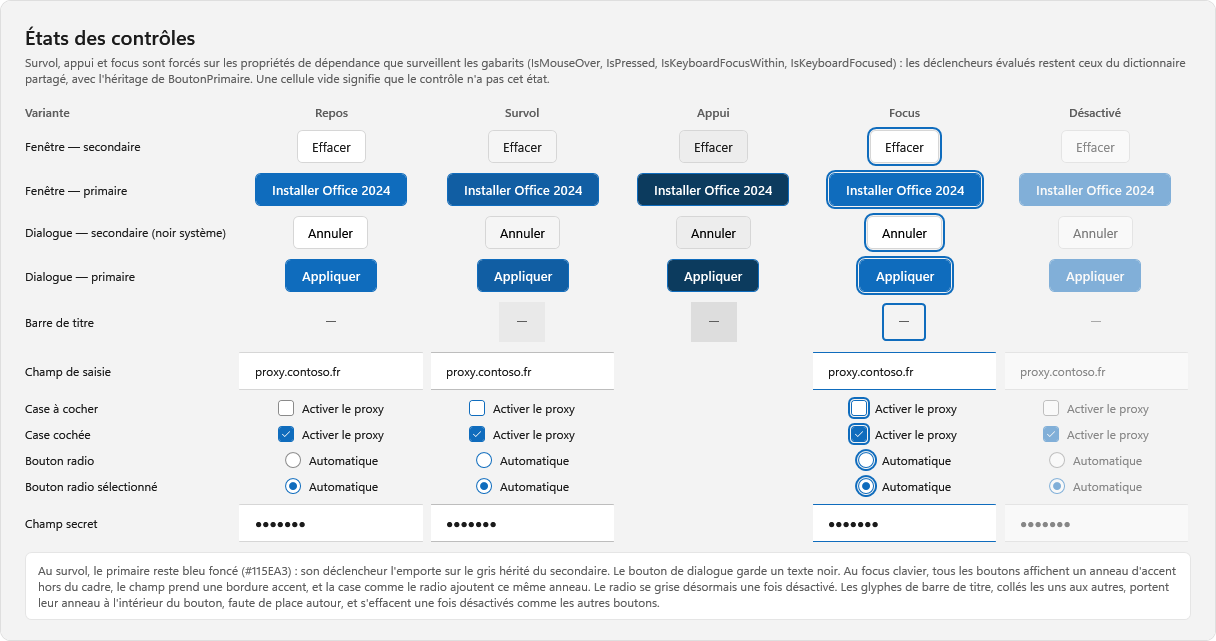
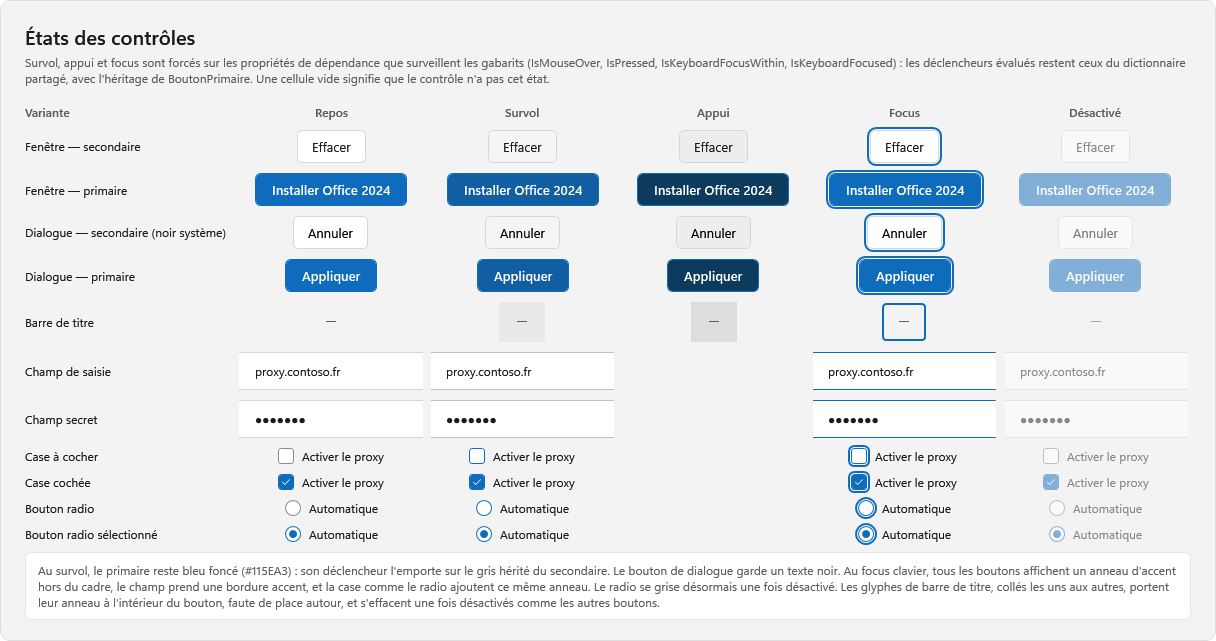
Place la ligne Champ secret juste apres Champ de saisie.
Les deux lignes de champs se suivent maintenant sur la planche : l'ancienne derniere
ligne (radios) reprend la marge basse nulle de la derniere ligne, et la ligne deplacee
prend les marges standard de la ligne 6. Seules les cases et les radios descendent de
48 px ; tout ce qui est au-dessus et la note restent identiques au pixel.

diff --git a/Maquette/Etats.xaml b/Maquette/Etats.xaml
@@ -171,81 +171,82 @@
                  Style="{StaticResource Champ}" Width="190" HorizontalAlignment="Center"
                  Margin="4,0,4,10"/>
 
-        <!-- Case a cocher -->
-        <TextBlock Grid.Row="7" Text="Case à cocher" Style="{StaticResource Etiquette}"
+        <!-- Champ secret : survol gris, focus accent, pas d'appui -->
+        <TextBlock Grid.Row="7" Text="Champ secret" Style="{StaticResource Etiquette}"
                    Margin="0,0,0,10"/>
-        <CheckBox Grid.Row="7" Grid.Column="1" x:Name="Chk_Repos" Content="Activer le proxy"
+        <PasswordBox Grid.Row="7" Grid.Column="1" x:Name="Secr_Repos" Password="contoso"
+                     Style="{StaticResource ChampSecret}" Width="190" HorizontalAlignment="Center"
+                     Margin="4,0,4,10"/>
+        <PasswordBox Grid.Row="7" Grid.Column="2" x:Name="Secr_Survol" Password="contoso"
+                     Style="{StaticResource ChampSecret}" Width="190" HorizontalAlignment="Center"
+                     Margin="4,0,4,10"/>
+        <PasswordBox Grid.Row="7" Grid.Column="4" x:Name="Secr_Focus" Password="contoso"
+                     Style="{StaticResource ChampSecret}" Width="190" HorizontalAlignment="Center"
+                     Margin="4,0,4,10"/>
+        <PasswordBox Grid.Row="7" Grid.Column="5" x:Name="Secr_Off" Password="contoso"
+                     Style="{StaticResource ChampSecret}" Width="190" HorizontalAlignment="Center"
+                     Margin="4,0,4,10"/>
+
+        <!-- Case a cocher -->
+        <TextBlock Grid.Row="8" Text="Case à cocher" Style="{StaticResource Etiquette}"
+                   Margin="0,0,0,10"/>
+        <CheckBox Grid.Row="8" Grid.Column="1" x:Name="Chk_Repos" Content="Activer le proxy"
                   Style="{StaticResource Case}" HorizontalAlignment="Center" Margin="4,0,4,10"/>
-        <CheckBox Grid.Row="7" Grid.Column="2" x:Name="Chk_Survol" Content="Activer le proxy"
+        <CheckBox Grid.Row="8" Grid.Column="2" x:Name="Chk_Survol" Content="Activer le proxy"
                   Style="{StaticResource Case}" HorizontalAlignment="Center" Margin="4,0,4,10"/>
-        <CheckBox Grid.Row="7" Grid.Column="4" x:Name="Chk_Focus" Content="Activer le proxy"
+        <CheckBox Grid.Row="8" Grid.Column="4" x:Name="Chk_Focus" Content="Activer le proxy"
                   Style="{StaticResource Case}" HorizontalAlignment="Center" Margin="4,0,4,10"/>
-        <CheckBox Grid.Row="7" Grid.Column="5" x:Name="Chk_Off" Content="Activer le proxy"
+        <CheckBox Grid.Row="8" Grid.Column="5" x:Name="Chk_Off" Content="Activer le proxy"
                   Style="{StaticResource Case}" HorizontalAlignment="Center" Margin="4,0,4,10"/>
 
         <!-- Case cochee : le focus doit rester visible sous le remplissage accent -->
-        <TextBlock Grid.Row="8" Text="Case cochée" Style="{StaticResource Etiquette}"
+        <TextBlock Grid.Row="9" Text="Case cochée" Style="{StaticResource Etiquette}"
                    Margin="0,0,0,10"/>
-        <CheckBox Grid.Row="8" Grid.Column="1" x:Name="ChkC_Repos" Content="Activer le proxy"
+        <CheckBox Grid.Row="9" Grid.Column="1" x:Name="ChkC_Repos" Content="Activer le proxy"
                   IsChecked="True" Style="{StaticResource Case}" HorizontalAlignment="Center"
                   Margin="4,0,4,10"/>
-        <CheckBox Grid.Row="8" Grid.Column="2" x:Name="ChkC_Survol" Content="Activer le proxy"
+        <CheckBox Grid.Row="9" Grid.Column="2" x:Name="ChkC_Survol" Content="Activer le proxy"
                   IsChecked="True" Style="{StaticResource Case}" HorizontalAlignment="Center"
                   Margin="4,0,4,10"/>
-        <CheckBox Grid.Row="8" Grid.Column="4" x:Name="ChkC_Focus" Content="Activer le proxy"
+        <CheckBox Grid.Row="9" Grid.Column="4" x:Name="ChkC_Focus" Content="Activer le proxy"
                   IsChecked="True" Style="{StaticResource Case}" HorizontalAlignment="Center"
                   Margin="4,0,4,10"/>
-        <CheckBox Grid.Row="8" Grid.Column="5" x:Name="ChkC_Off" Content="Activer le proxy"
+        <CheckBox Grid.Row="9" Grid.Column="5" x:Name="ChkC_Off" Content="Activer le proxy"
                   IsChecked="True" Style="{StaticResource Case}" HorizontalAlignment="Center"
                   Margin="4,0,4,10"/>
 
         <!-- Bouton radio : meme anneau de focus que la case. Chaque bouton porte son
              propre GroupName, sinon les instances cochees se decocheraient entre elles. -->
-        <TextBlock Grid.Row="9" Text="Bouton radio" Style="{StaticResource Etiquette}"
+        <TextBlock Grid.Row="10" Text="Bouton radio" Style="{StaticResource Etiquette}"
                    Margin="0,0,0,10"/>
-        <RadioButton Grid.Row="9" Grid.Column="1" x:Name="Opt_Repos" Content="Automatique"
+        <RadioButton Grid.Row="10" Grid.Column="1" x:Name="Opt_Repos" Content="Automatique"
                      GroupName="Opt_Repos" Style="{StaticResource Option}" HorizontalAlignment="Center"
                      Margin="4,0,4,10"/>
-        <RadioButton Grid.Row="9" Grid.Column="2" x:Name="Opt_Survol" Content="Automatique"
+        <RadioButton Grid.Row="10" Grid.Column="2" x:Name="Opt_Survol" Content="Automatique"
                      GroupName="Opt_Survol" Style="{StaticResource Option}" HorizontalAlignment="Center"
                      Margin="4,0,4,10"/>
-        <RadioButton Grid.Row="9" Grid.Column="4" x:Name="Opt_Focus" Content="Automatique"
+        <RadioButton Grid.Row="10" Grid.Column="4" x:Name="Opt_Focus" Content="Automatique"
                      GroupName="Opt_Focus" Style="{StaticResource Option}" HorizontalAlignment="Center"
                      Margin="4,0,4,10"/>
-        <RadioButton Grid.Row="9" Grid.Column="5" x:Name="Opt_Off" Content="Automatique"
+        <RadioButton Grid.Row="10" Grid.Column="5" x:Name="Opt_Off" Content="Automatique"
                      GroupName="Opt_Off" Style="{StaticResource Option}" HorizontalAlignment="Center"
                      Margin="4,0,4,10"/>
 
         <!-- Bouton radio selectionne : le focus doit rester visible sous le point accent -->
-        <TextBlock Grid.Row="10" Text="Bouton radio sélectionné" Style="{StaticResource Etiquette}"/>
-        <RadioButton Grid.Row="10" Grid.Column="1" x:Name="OptC_Repos" Content="Automatique"
+        <TextBlock Grid.Row="11" Text="Bouton radio sélectionné" Style="{StaticResource Etiquette}"/>
+        <RadioButton Grid.Row="11" Grid.Column="1" x:Name="OptC_Repos" Content="Automatique"
                      GroupName="OptC_Repos" IsChecked="True" Style="{StaticResource Option}"
                      HorizontalAlignment="Center" Margin="4,0,4,0"/>
-        <RadioButton Grid.Row="10" Grid.Column="2" x:Name="OptC_Survol" Content="Automatique"
+        <RadioButton Grid.Row="11" Grid.Column="2" x:Name="OptC_Survol" Content="Automatique"
                      GroupName="OptC_Survol" IsChecked="True" Style="{StaticResource Option}"
                      HorizontalAlignment="Center" Margin="4,0,4,0"/>
-        <RadioButton Grid.Row="10" Grid.Column="4" x:Name="OptC_Focus" Content="Automatique"
+        <RadioButton Grid.Row="11" Grid.Column="4" x:Name="OptC_Focus" Content="Automatique"
                      GroupName="OptC_Focus" IsChecked="True" Style="{StaticResource Option}"
                      HorizontalAlignment="Center" Margin="4,0,4,0"/>
-        <RadioButton Grid.Row="10" Grid.Column="5" x:Name="OptC_Off" Content="Automatique"
+        <RadioButton Grid.Row="11" Grid.Column="5" x:Name="OptC_Off" Content="Automatique"
                      GroupName="OptC_Off" IsChecked="True" Style="{StaticResource Option}"
                      HorizontalAlignment="Center" Margin="4,0,4,0"/>
 
-        <!-- Champ secret : survol gris, focus accent, pas d'appui -->
-        <TextBlock Grid.Row="11" Text="Champ secret" Style="{StaticResource Etiquette}"
-                   Margin="0,10,0,0"/>
-        <PasswordBox Grid.Row="11" Grid.Column="1" x:Name="Secr_Repos" Password="contoso"
-                     Style="{StaticResource ChampSecret}" Width="190" HorizontalAlignment="Center"
-                     Margin="4,10,4,0"/>
-        <PasswordBox Grid.Row="11" Grid.Column="2" x:Name="Secr_Survol" Password="contoso"
-                     Style="{StaticResource ChampSecret}" Width="190" HorizontalAlignment="Center"
-                     Margin="4,10,4,0"/>
-        <PasswordBox Grid.Row="11" Grid.Column="4" x:Name="Secr_Focus" Password="contoso"
-                     Style="{StaticResource ChampSecret}" Width="190" HorizontalAlignment="Center"
-                     Margin="4,10,4,0"/>
-        <PasswordBox Grid.Row="11" Grid.Column="5" x:Name="Secr_Off" Password="contoso"
-                     Style="{StaticResource ChampSecret}" Width="190" HorizontalAlignment="Center"
-                     Margin="4,10,4,0"/>
       </Grid>
 
       <Border Background="#FFFFFF" BorderBrush="{StaticResource Brd}" BorderThickness="1"
